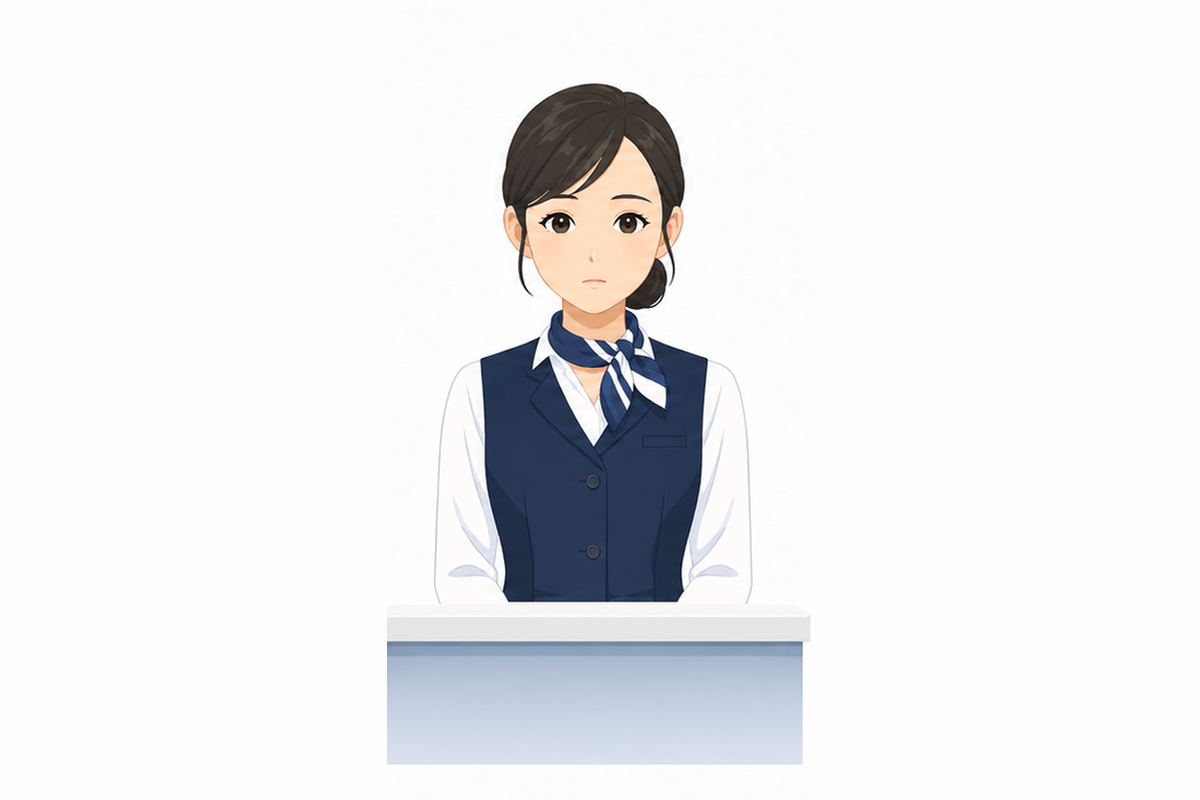
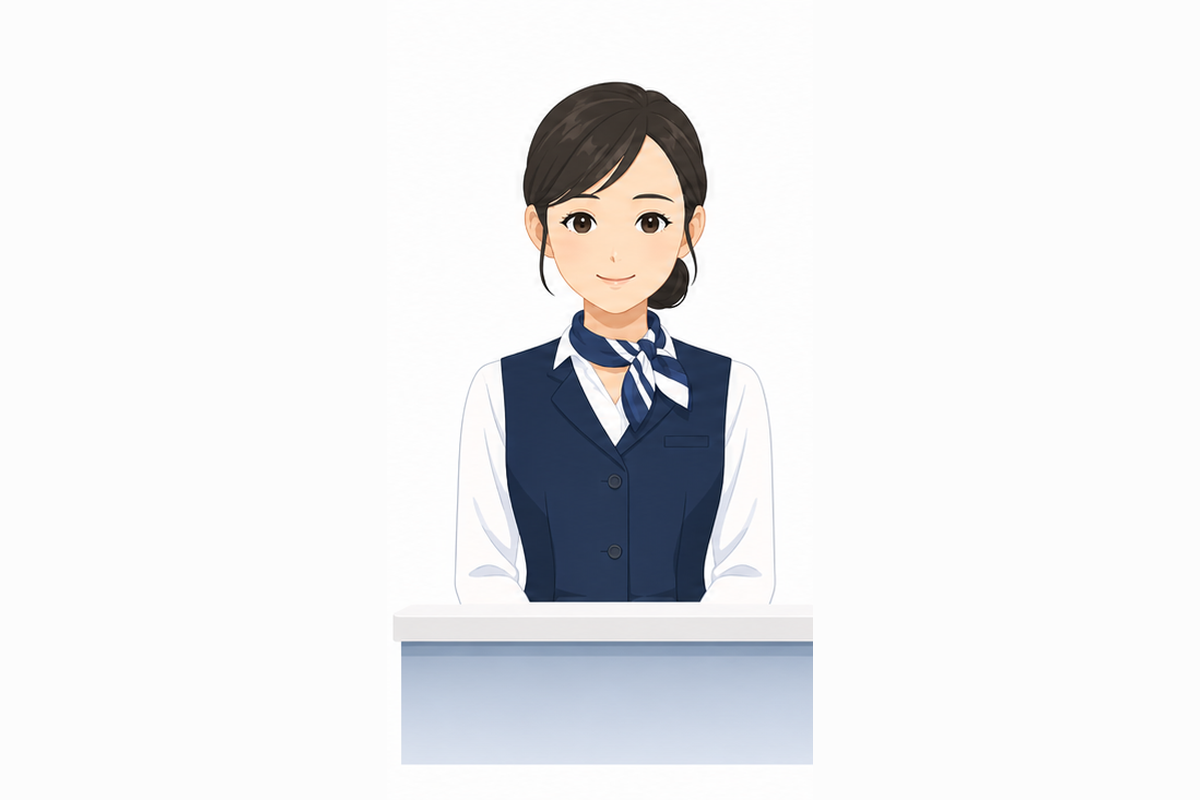
Smooth receptionist mouth animation

diff --git a/index.html b/index.html
@@ -1417,10 +1417,6 @@
       pointer-events: none;
     }
 
-    .art-avatar.is-speaking img {
-      animation: receptionistTalk 1.05s ease-in-out infinite;
-    }
-
     .art-avatar.is-thinking img {
       filter: saturate(0.94) contrast(0.98) brightness(0.99);
     }
@@ -1670,15 +1666,6 @@
       font-weight: 600;
     }
 
-    @keyframes receptionistTalk {
-      0%, 100% {
-        transform: translateY(0) scale(1);
-      }
-      50% {
-        transform: translateY(3px) scale(1.006);
-      }
-    }
-
     @keyframes avatarNod {
       0%, 100% {
         transform: translateY(0);
@@ -1710,7 +1697,6 @@
 
     @media (prefers-reduced-motion: reduce) {
       .reception-avatar.is-speaking,
-      .art-avatar.is-speaking img,
       .reception-avatar.is-thinking .thought-dots span,
       .voice-meter.is-active .meter-bars span {
         animation: none;
@@ -2445,10 +2431,22 @@
       thinking: "assets/receptionist/staff-thinking.png",
       smile: "assets/receptionist/staff-smile.png",
       speaking: [
-        "assets/receptionist/staff-mouth-small.png",
-        "assets/receptionist/staff-mouth-open.png",
-        "assets/receptionist/staff-mouth-small.png",
-        "assets/receptionist/staff-idle.png"
+        "assets/receptionist/staff-speak-00.png",
+        "assets/receptionist/staff-speak-01.png",
+        "assets/receptionist/staff-speak-02.png",
+        "assets/receptionist/staff-speak-03.png",
+        "assets/receptionist/staff-speak-04.png",
+        "assets/receptionist/staff-speak-05.png",
+        "assets/receptionist/staff-speak-06.png",
+        "assets/receptionist/staff-speak-07.png",
+        "assets/receptionist/staff-speak-08.png",
+        "assets/receptionist/staff-speak-09.png",
+        "assets/receptionist/staff-speak-10.png",
+        "assets/receptionist/staff-speak-11.png",
+        "assets/receptionist/staff-speak-12.png",
+        "assets/receptionist/staff-speak-13.png",
+        "assets/receptionist/staff-speak-14.png",
+        "assets/receptionist/staff-speak-15.png"
       ]
     };
 
@@ -2489,7 +2487,7 @@
       receptionistFrameTimer = setInterval(() => {
         receptionistFrameIndex = (receptionistFrameIndex + 1) % frames.length;
         setReceptionistImage(frames[receptionistFrameIndex]);
-      }, 170);
+      }, 72);
     }
 
     function finishReceptionResponse() {

diff --git a/README.md b/README.md
@@ -9,7 +9,7 @@
 - グラフ色数を絞った青系カラーパレット
 - 装飾よりも数値・比較・要対応の発見しやすさを優先
 - 日本のEC運用者向けの日本語文言
-- AI受付スタッフ画面は5枚のフレーム画像、応答アニメーション、ブラウザ読み上げ、固定デモ応答のみで構成
+- AI受付スタッフ画面は同一ベース画像から作った16枚の口アニメーション、ブラウザ読み上げ、固定デモ応答のみで構成
 
 ## 開き方
 
@@ -33,7 +33,7 @@ http://127.0.0.1:8765/
 - データは `index.html` 内の固定デモデータのみです。
 - AI受付の読み上げはブラウザ標準の `SpeechSynthesis` を使います。ChatGPT/Codex CLIやOpenAI APIには接続していません。
 - 受付スタッフ画像は `assets/receptionist/` 配下のローカルアセットです。
-- 応答中は `staff-mouth-small.png` と `staff-mouth-open.png` を切り替えて話しているように見せます。
+- 応答中は `staff-speak-00.png` から `staff-speak-15.png` を高速に切り替えて話しているように見せます。
 - CSPで `connect-src 'none'` を設定し、ブラウザからのネットワーク通信を禁止しています。
 - ローカル確認サーバーを使う場合は `127.0.0.1` に限定してください。
 
